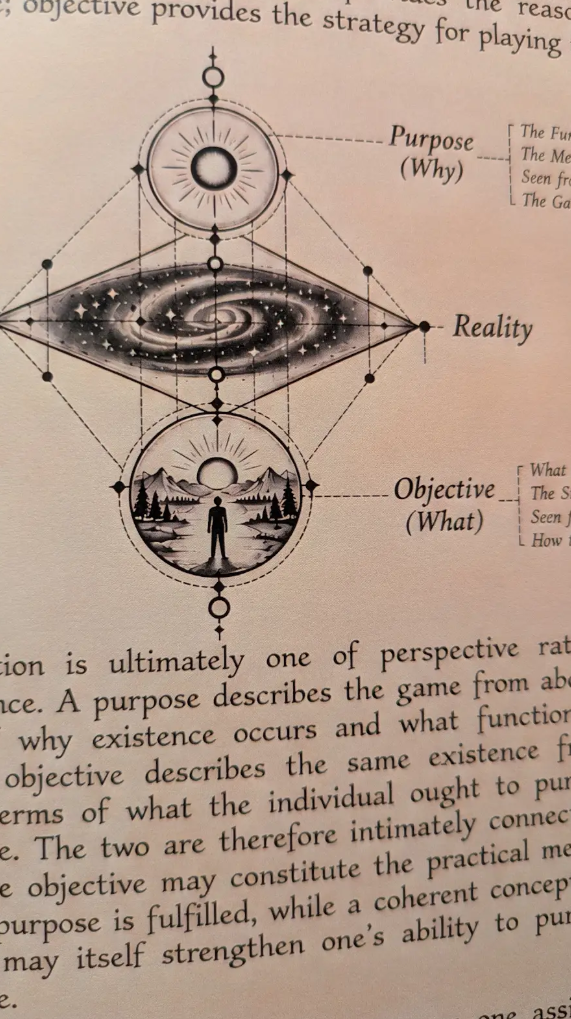
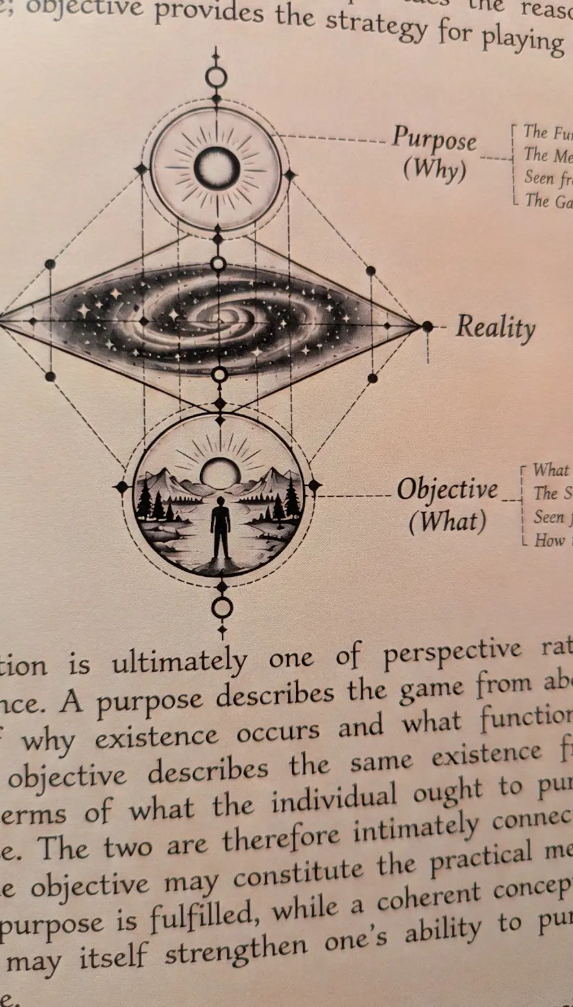
Update Home2 interior story cards

diff --git a/frontend/home2/index.html b/frontend/home2/index.html
@@ -102,26 +102,26 @@
         <div class="inside-grid">
           <figure class="page-card">
             <div class="page-card-media">
-              <img src="img/photo/reality-manual-interior-core-principles.jpg" alt="The Rule of Functional Existence inside The Reality Manual" loading="lazy" decoding="async" />
+              <img src="img/photo/home2-interiors/reality-manual-five-axes.png" alt="The five axes of belief, oneness, expansion, freedom, and desire inside The Reality Manual" loading="lazy" decoding="async" />
             </div>
-            <figcaption>Core Principles</figcaption>
+            <figcaption>The Objective of Life</figcaption>
           </figure>
           <figure class="page-card">
             <div class="page-card-media">
-              <img src="img/photo/reality-manual-interior-practical-applications.jpg" alt="Examples of oneness and separation inside The Reality Manual" loading="lazy" decoding="async" />
+              <img src="img/photo/home2-interiors/reality-manual-internal-value.png" alt="Rule I, the Rule of Internal Value, inside The Reality Manual" loading="lazy" decoding="async" />
             </div>
-            <figcaption>Practical Applications</figcaption>
+            <figcaption>The 14 Rules of Reality</figcaption>
           </figure>
           <figure class="page-card">
             <div class="page-card-media">
-              <img src="img/photo/reality-manual-interior-advanced-techniques.jpg" alt="The attainment of enlightenment framework inside The Reality Manual" loading="lazy" decoding="async" />
+              <img src="img/photo/home2-interiors/reality-manual-indirect-pursuit-objective.png" alt="The indirect pursuit of the objective inside The Reality Manual" loading="lazy" decoding="async" />
             </div>
-            <figcaption>Advanced Techniques</figcaption>
+            <figcaption>Life Strategy</figcaption>
           </figure>
 
           <figure class="page-card">
             <div class="page-card-media">
-              <img src="img/photo/reality-manual-interior-advanced-techniques.jpg" alt="The attainment of enlightenment framework inside The Reality Manual" loading="lazy" decoding="async" />
+              <img src="img/photo/home2-interiors/reality-manual-purpose-reality-objective.png" alt="The relationship between purpose, reality, and objective inside The Reality Manual" loading="lazy" decoding="async" />
             </div>
             <figcaption>Advanced Techniques</figcaption>
           </figure>

diff --git a/frontend/css/style.css b/frontend/css/style.css
@@ -1126,8 +1126,13 @@ img { max-width: 100%; }
 
 .home2-page .inside > .wrap { position: relative; z-index: 1; }
 .home2-page .inside .page-card-media {
+  aspect-ratio: 9 / 16;
   border-color: rgba(201, 162, 77, 0.5);
   box-shadow: 0 18px 38px rgba(0, 0, 0, 0.55);
+}
+.home2-page .inside .page-card img {
+  object-fit: cover;
+  transform: none;
 }
 .home2-page .inside .page-card figcaption {
   color: rgba(231, 200, 130, 0.78);

diff --git a/CLAUDE.md b/CLAUDE.md
@@ -18081,3 +18081,22 @@ The files have descriptive `reality-manual-*` names rather than attachment
 indices. A contact-sheet review confirmed all eight are upright. They are not
 yet referenced by Home2 markup or styles; placement is intentionally deferred
 until Harvey supplies the follow-up layout instructions.
+
+---
+
+# 566. Home2 Interior Gallery Follows the Book's Four-Part Story (2026-10-12)
+
+Home2's four Inside the Book cards now present the requested progression and
+new photographs: The Objective of Life uses the upright Five Axes page; The 14
+Rules of Reality uses the upright Rule I / Internal Value page; Life Strategy
+uses the remaining upright Section I game material showing the indirect pursuit
+of the objective; and Advanced Techniques uses Harvey's newly supplied
+Purpose–Reality–Objective photograph. Descriptive alt text follows the content
+of each page.
+
+The Home2-only card ratio changed from 3:4 to 9:16 and its inherited 2.12× image
+zoom was removed. These phone photographs now appear upright and nearly in full
+instead of being cropped down to their centres. Other pages retain their
+existing gallery styling. Headless Chromium checks at 1858px and 390px confirmed
+all four exact files decode, render in the requested order, and keep legible,
+balanced captions across desktop and the two-column phone layout.
